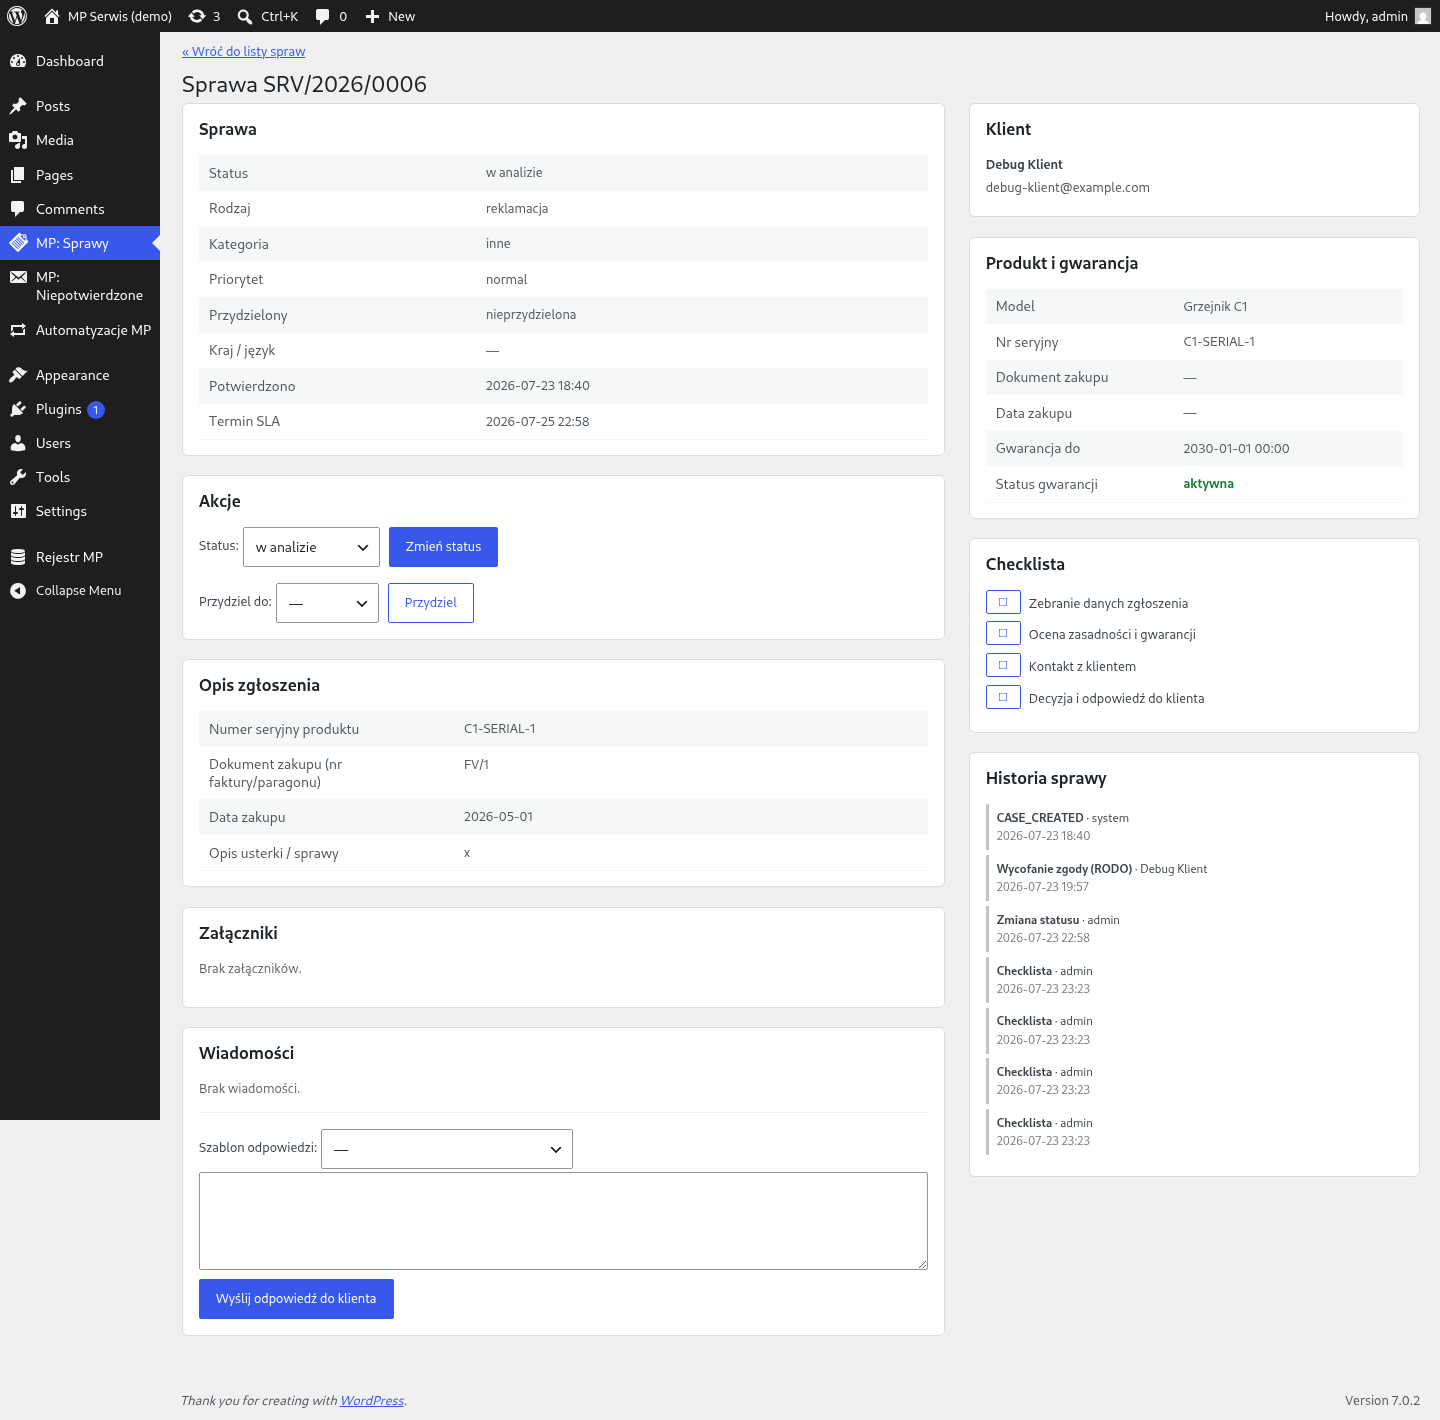
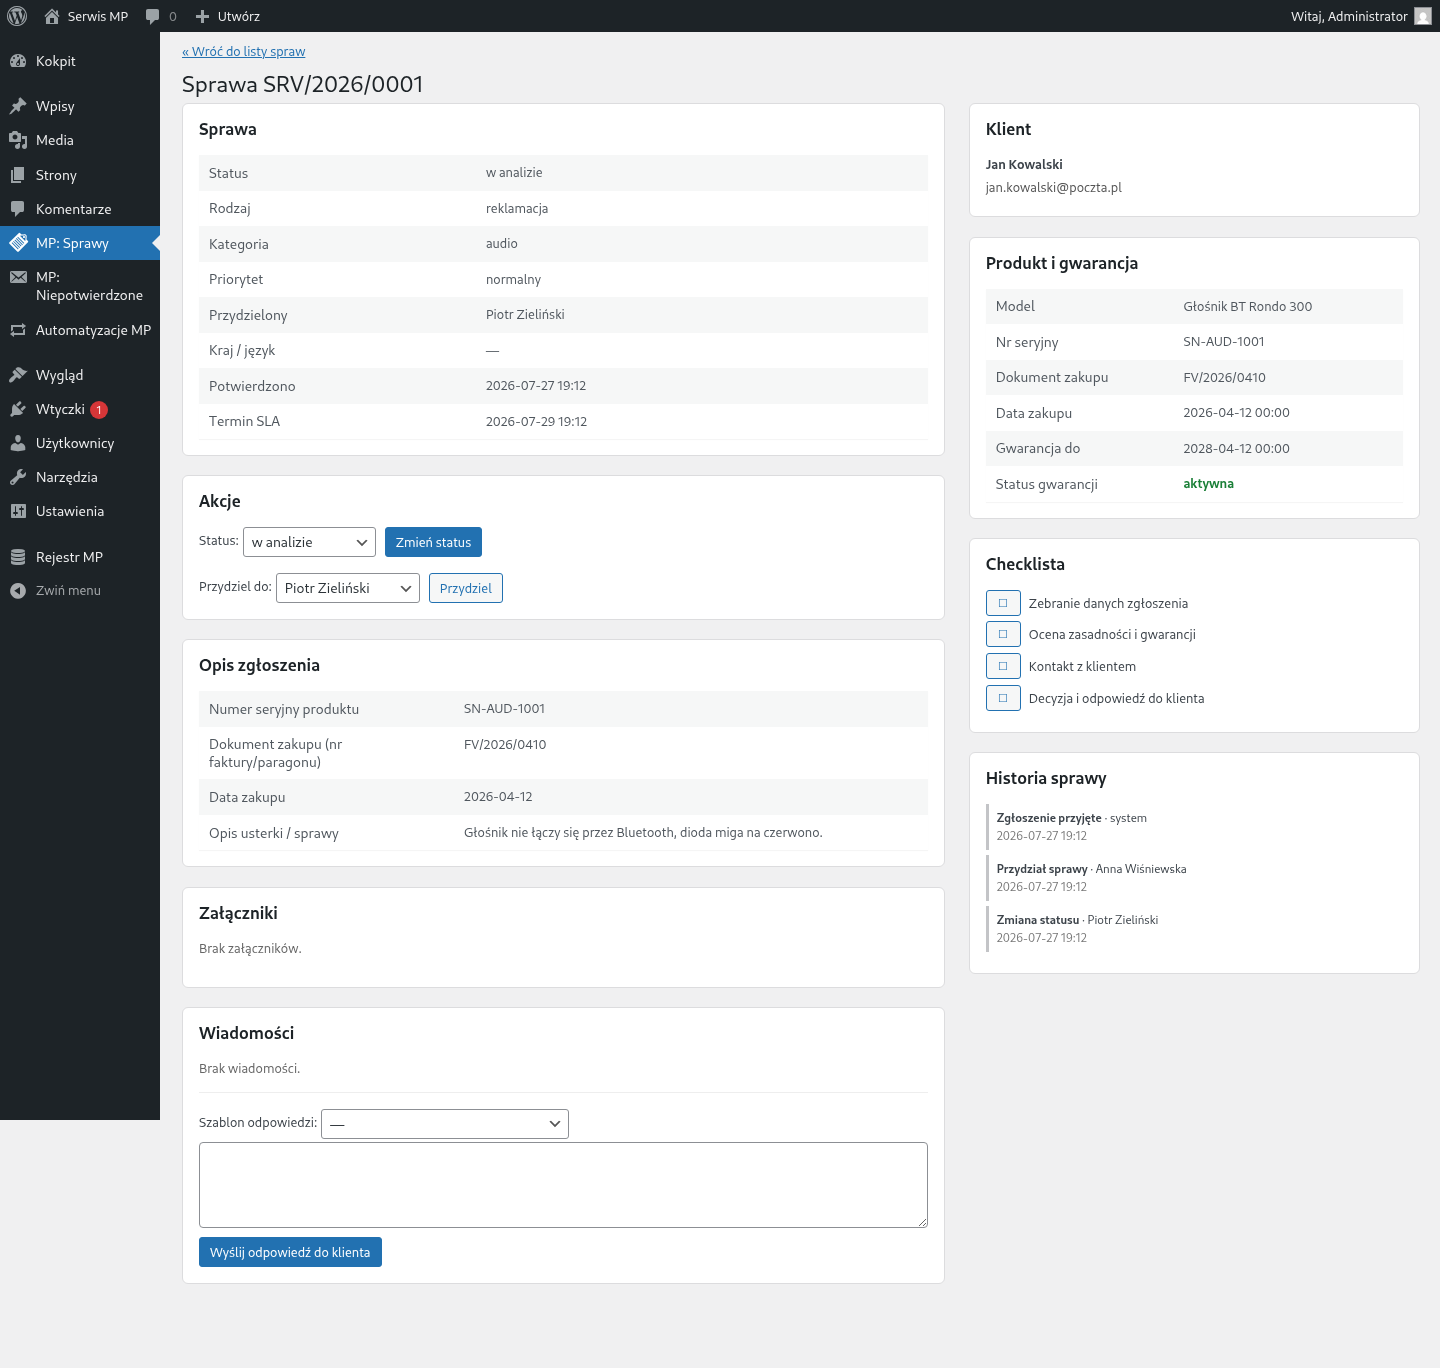
docs(instrukcje): świeże zrzuty panelu — polski WordPress, sensowne dane (#134)
* docs(instrukcje): swieze zrzuty panelu — polski WordPress, sensowne dane

Stare zrzuty (23.07) mialy dwa problemy widoczne dopiero po obejrzeniu klatka
po klatce: panel WordPressa byl po ANGIELSKU (Dashboard, Posts, Users, "Howdy,
admin"), a na liscie siedzialy smieci testowe — "Debug Klient", "Test Oko",
"T Test", "sw1@example.com". To szlo do obcej firmy jako dokumentacja.

Nowe: WordPress po polsku, polskie nazwiska i realne usterki, sprawy w roznych
statusach, produkty z gwarancjami, wyjatki gwarancyjne. Zrobione Playwrightem
w 1440 px (jak dotad), na paczce zbudowanej z biezacego main — wiec pokazuja
juz poprawki #132: zwrot ma powod zamiast "— bez opisu", historia zaczyna sie
od "Zgloszenie przyjete" (nie CASE_CREATED), priorytet to "normalny".

Powtarzalne: bash testy/paczka-od-zera/uruchom.sh + dane-do-zrzutow.sh.
Nietkniete: 13 zdjec strony klienta (formularz, panel, maile) — do przejrzenia osobno.

* docs(instrukcje): zdjecia strony klienta na jasnym motywie, wersja 1.0.0

Stare 13 zdjec bylo zrobione z WYMUSZONYM trybem ciemnym przegladarki — strona
OKTAN jest jasna (--biel #FAFAF8, karty #ffffff), wiec klient dostawal instrukcje
z ekranami, ktorych u siebie nie zobaczy. Drugi problem: pochodzily z wersji 0.5.0
i pokazywaly numer sprawy w starym pieciocyfrowym formacie (SRV/2026/00010),
naprawionym jako niezgodnosc ze specyfikacja.

Nowe: cala sciezka klienta przejsta od nowa na demo podniesionym do 1.0.0 —
[…]

diff --git a/README.md b/README.md
@@ -21,7 +21,7 @@ WordPress 6.x · PHP 8.1–8.5 (CI testuje każdą wersję) · MySQL 8 / MariaDB
 ## Szybki start
 
 1. Zainstaluj i aktywuj trzy ZIP-y z [Releases](../../releases) — **kolejność dowolna**: każda
-   wtyczka działa też sama i grzecznie ogranicza funkcje, gdy braci nie ma (nigdy biały ekran).
+   wtyczka działa też sama i ogranicza funkcje, gdy braci nie ma — zamiast błędu pokazuje komunikat.
 2. Aktywacja Intake sama tworzy strony **formularza zgłoszenia** i **panelu klienta** oraz role:
    *administrator systemu MP*, *koordynator serwisu*, *pracownik serwisu*, *klient*.
 3. Zajrzyj do **Narzędzia → Stan witryny** — dziesięć testów diagnostycznych mówi, czego
@@ -88,9 +88,11 @@ prostym językiem i ze zrzutami ekranu:
 - **Nie wystawia publicznego REST API.** Jedyne wejścia do systemu: formularz zgłoszenia,
   panel klienta i wp-admin dla personelu. Integracje między wtyczkami idą przez udokumentowane
   hooki ([`API-KONTRAKT.md`](dokumentacja-techniczna/API-KONTRAKT.md)) — to API wewnętrzne.
-- **Nie kasuje danych „na twardo".** Prawo do usunięcia (RODO) realizuje **anonimizacja**:
-  dane osobowe znikają, oś zdarzeń i statystyki zostają. Historia zdarzeń sprawy jest z
-  konstrukcji nieusuwalna (wymóg specyfikacji). Przy adresie e-mail współdzielonym przez
+- **Wniosku RODO nie realizuje przez kasowanie rekordów, tylko przez anonimizację**: dane
+  osobowe znikają, oś zdarzeń i statystyki zostają. Historia zdarzeń sprawy jest z
+  konstrukcji nieusuwalna (wymóg specyfikacji). ⚠ To dotyczy **bieżącej pracy systemu** —
+  przy odinstalowaniu wtyczki z **włączoną** opcją „usuń dane" tabele, opcje, role i konta
+  klientów są kasowane trwale (domyślnie opcja jest wyłączona, dane przeżywają deaktywację). Przy adresie e-mail współdzielonym przez
   wiele osób samoobsługowe usunięcie jest wyłączone — wniosek rozpatruje personel (żeby jedna
   osoba nie skasowała danych drugiej).
 - **Nie liczy płatności, faktur ani magazynu** — rejestr produktów służy gwarancjom, nie sprzedaży.
